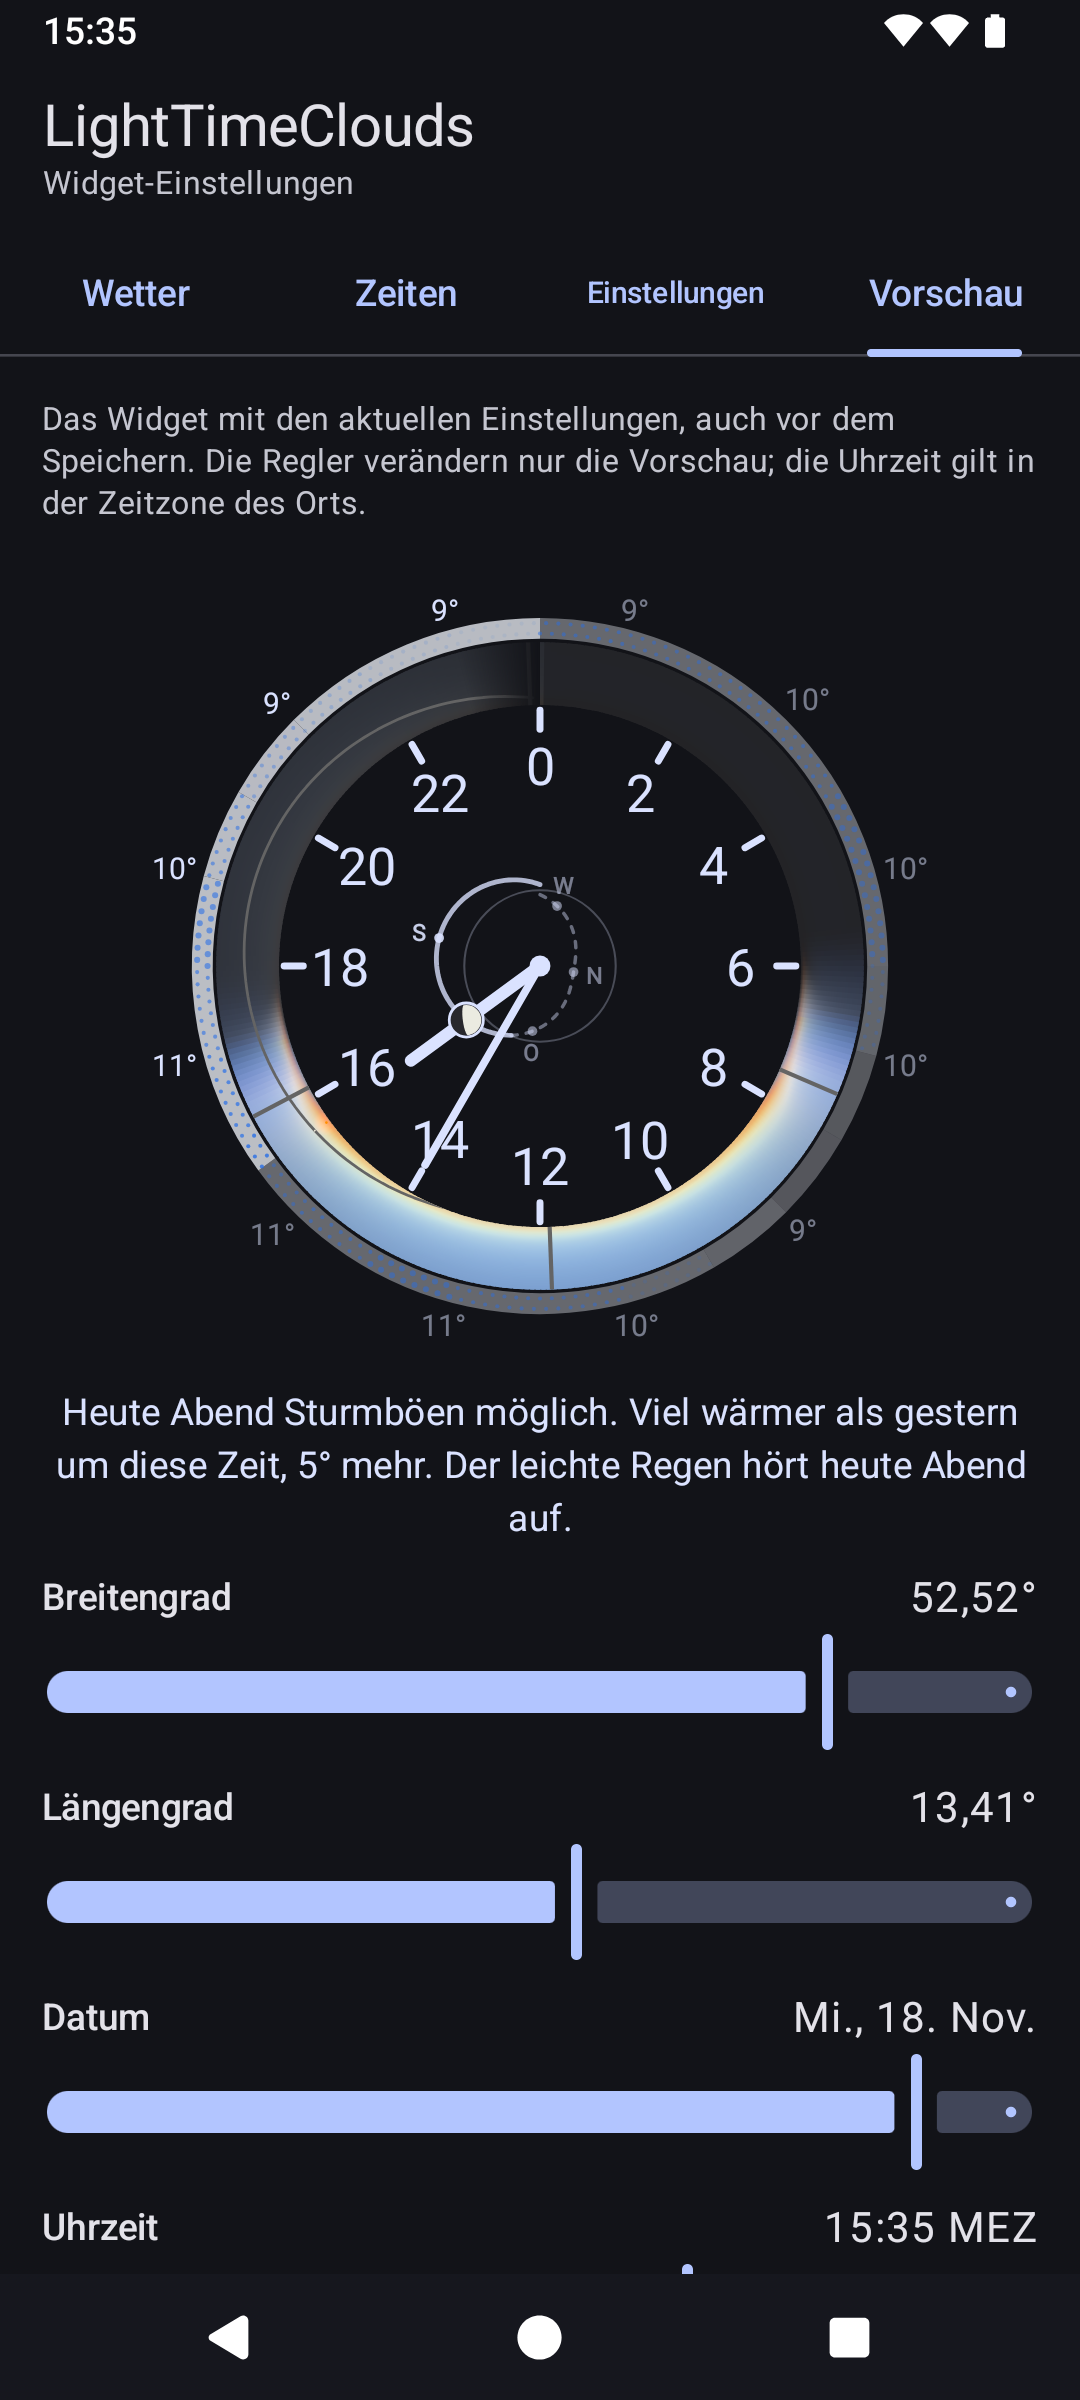
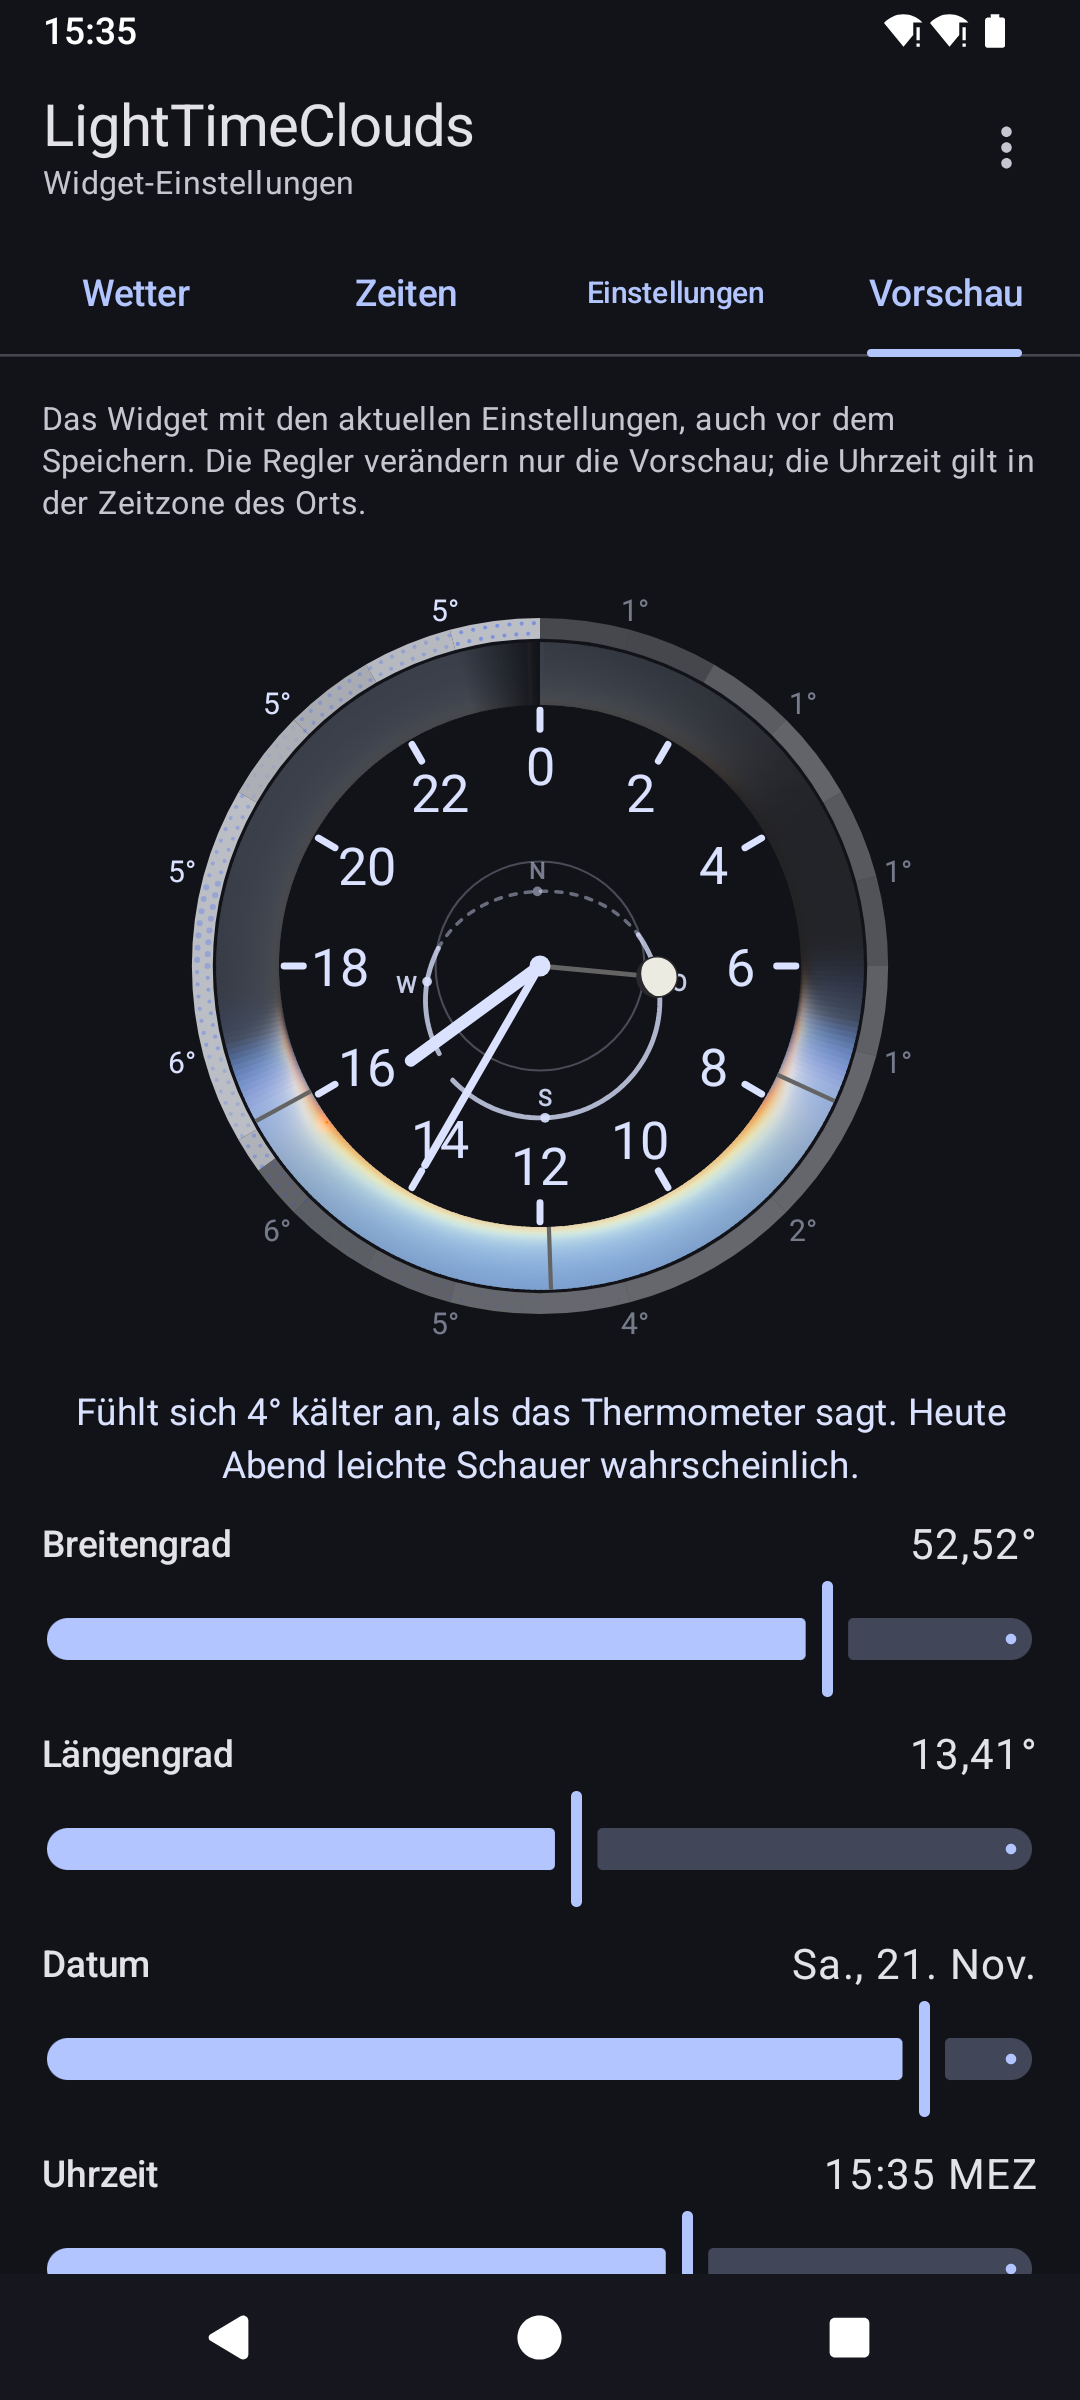
Retake the store screenshots with a script
tools/store_screenshots.py takes the six screenshots per language on a
running emulator: it sets the clock to Berlin shortly before sunset,
turns on the demo status bar, writes the widget's settings straight
into the app's preferences file and loads one forecast that every
language reuses. Only placing the widget on the home screen stays a
one-time manual step.

The new shots show the 24-hour default with its own moon hand, the
sky palette, the weather chart with wind, the settings tab with one
topic open, and the app menu.

diff --git a/tools/store_screenshots.py b/tools/store_screenshots.py
@@ -1,0 +1,327 @@
+# /// script
+# requires-python = ">=3.12"
+# dependencies = ["pillow>=11"]
+# ///
+"""Takes the six store screenshots per language on an emulator and writes them to fastlane/.
+
+  1  home screen, widget with the default settings
+  2  home screen, widget with place name, weather ring and summary
+  3–6 the widget's settings: tabs weather, times, settings (one topic open), preview
+
+The scene is Berlin a little before sunset, with a demo status bar. Settings are written straight
+into the app's preferences file and the forecast is fetched once and reused for every language, so
+all shots show the same weather.
+
+One-time setup of the emulator (kept in its AVD):
+  - a launcher with room for a full-width 4x4 widget above the icon row (Lawnchair works well),
+    the LightTimeClouds widget placed there and resized to full width, a calm dark wallpaper;
+  - a Google-free system image, so `adb root` works.
+
+Run from the repository root with the emulator running:
+  ./gradlew :app:assembleRelease
+  uv run tools/store_screenshots.py --apk app/build/outputs/apk/release/app-release.apk --fetch
+
+`--fetch` turns the network on once to load a fresh forecast for the scene's date and keeps it in
+build/store-screenshots/forecast.json; without it that file is reused, so the scene's date must
+then be the date the forecast was fetched on.
+"""
+
+from __future__ import annotations
+
+import argparse
+import datetime as dt
+import io
+import re
+import struct
+import subprocess
+import sys
+import time
+import xml.etree.ElementTree as ET
+from collections.abc import Mapping
+from pathlib import Path
+
+from PIL import Image
+
+PACKAGE = "com.umfluten.lighttimeclouds"
+PROVIDER = f"{PACKAGE}/.widget.ClockWidgetProvider"
+CONFIG = f"{PACKAGE}/.config.ConfigActivity"
+DATA = f"/data/data/{PACKAGE}/files"
+PREFS = f"{DATA}/datastore/widget_prefs.preferences_pb"
+FORECAST = f"{DATA}/weather/default.json"
+
+ROOT = Path(__file__).resolve().parent.parent
+OUT = ROOT / "fastlane/metadata/android"
+WORK = ROOT / "build/store-screenshots"
+
+# Store locale -> Android resource directory.
+LOCALES = {"de-DE": "values-de", "en-US": "values", "es-ES": "values-es", "fr-FR": "values-fr"}
+
+# Berlin, as in all examples; about 25 minutes before sunset in late November.
+PLACE = {"name": "Berlin", "lat": 52.521, "lon": 13.409, "zone": "Europe/Berlin"}
+SCENE_TIME = dt.time(15, 35)
+
+# Shot 2 changes only these from the defaults.
+SHOWCASE: dict[str, object] = {
+    "label_position": "ABOVE",
+    "show_weather": True,
+    "weather_ring_position": "OUTSIDE",
+    "temperature_position": "OUTSIDE",
+    "summary_position": "BELOW",
+}
+
+SETTLE_S = 3.0
+
+
+class Device:
+    def __init__(self, serial: str) -> None:
+        self.serial = serial
+
+    def run(self, *args: str, binary: bool = False, check: bool = True) -> str | bytes:
+        result = subprocess.run(["adb", "-s", self.serial, *args], capture_output=True, check=check)
+        return result.stdout if binary else result.stdout.decode(errors="replace").strip()
+
+    def shell(self, command: str, check: bool = True) -> str:
+        out = self.run("shell", command, check=check)
+        assert isinstance(out, str)
+        return out
+
+    def wait_for_boot(self) -> None:
+        self.run("wait-for-device")
+        while self.shell("getprop sys.boot_completed", check=False) != "1":
+            time.sleep(1)
+        time.sleep(SETTLE_S)
+
+    def push_file(self, local: Path, remote: str, mode: str) -> None:
+        """Puts [local] at [remote] inside the app's data, owned by the app and labeled for it."""
+        owner = self.shell(f"stat -c %u {DATA}")
+        self.run("push", str(local), "/data/local/tmp/ltc_upload")
+        self.shell(
+            f"mkdir -p {remote.rsplit('/', 1)[0]} && cp /data/local/tmp/ltc_upload {remote} && "
+            f"chown {owner}:{owner} {remote} && chmod {mode} {remote} && restorecon {remote} && "
+            "rm /data/local/tmp/ltc_upload"
+        )
+
+    def tap(self, x: int, y: int) -> None:
+        self.shell(f"input tap {x} {y}")
+
+    def screenshot(self, path: Path) -> None:
+        png = self.run("exec-out", "screencap", "-p", binary=True)
+        assert isinstance(png, bytes)
+        path.parent.mkdir(parents=True, exist_ok=True)
+        # Re-encoding drops every metadata chunk.
+        Image.open(io.BytesIO(png)).convert("RGB").save(path, optimize=True)
+
+    def nodes(self) -> list[tuple[str, tuple[int, int, int, int]]]:
+        """Visible texts on screen with their bounds."""
+        self.shell("uiautomator dump /sdcard/ltc_ui.xml")
+        xml = self.run("exec-out", "cat", "/sdcard/ltc_ui.xml")
+        assert isinstance(xml, str)
+        found = []
+        for node in ET.fromstring(xml).iter("node"):
+            text = node.get("text") or node.get("content-desc") or ""
+            m = re.match(r"\[(\d+),(\d+)\]\[(\d+),(\d+)\]", node.get("bounds", ""))
+            if text and m:
+                found.append((text, (int(m[1]), int(m[2]), int(m[3]), int(m[4]))))
+        return found
+
+    def tap_text(self, text: str, below: int = 0) -> int:
+        """Taps the topmost [text] below the y coordinate [below]; returns its bottom edge."""
+        for found, (x0, y0, x1, y1) in sorted(self.nodes(), key=lambda n: n[1][1]):
+            if found == text and y0 >= below:
+                self.tap((x0 + x1) // 2, (y0 + y1) // 2)
+                return y1
+        sys.exit(f"'{text}' not found on screen")
+
+
+# ---- preferences file (androidx.datastore PreferenceMap protobuf) ----
+
+
+def _varint(n: int) -> bytes:
+    out = bytearray()
+    while True:
+        b = n & 0x7F
+        n >>= 7
+        out.append(b | (0x80 if n else 0))
+        if not n:
+            return bytes(out)
+
+
+def _field(number: int, payload: bytes) -> bytes:
+    return _varint(number << 3 | 2) + _varint(len(payload)) + payload
+
+
+def _value(v: object) -> bytes:
+    match v:
+        case bool():
+            return _varint(1 << 3) + _varint(int(v))
+        case int():
+            return _varint(3 << 3) + _varint(v & 0xFFFFFFFFFFFFFFFF)
+        case float():
+            return _varint(7 << 3 | 1) + struct.pack("<d", v)
+        case str():
+            return _field(5, v.encode())
+        case set():
+            return _field(6, b"".join(_field(1, s.encode()) for s in sorted(v)))
+    raise TypeError(v)
+
+
+def preferences(widget_id: int, changes: Mapping[str, object]) -> bytes:
+    """The app's preferences with Berlin as the only place and [changes] for the widget."""
+    prefs: dict[str, object] = {
+        "place_ids": {"default"},
+        "place_default_name": PLACE["name"],
+        "place_default_lat": PLACE["lat"],
+        "place_default_lon": PLACE["lon"],
+        "place_default_zone": PLACE["zone"],
+        f"w{widget_id}_place": "default",
+        f"w{widget_id}_configured": True,
+    }
+    prefs.update({f"w{widget_id}_{k}": v for k, v in changes.items()})
+    return b"".join(_field(1, _field(1, k.encode()) + _field(2, _value(v))) for k, v in prefs.items())
+
+
+# ---- scene ----
+
+
+def widget_id(device: Device) -> int:
+    dump = device.shell("dumpsys appwidget")
+    ids = re.findall(r"\[\d+\] id=(\d+)\s+host=[^\n]*\s+provider=ProviderId\{[^}]*" + re.escape(PACKAGE), dump)
+    if not ids:
+        sys.exit("No LightTimeClouds widget on the home screen; place one first (see the docstring).")
+    return int(ids[0])
+
+
+def set_clock(device: Device, at: dt.datetime) -> None:
+    device.shell("settings put global auto_time 0")
+    device.shell(f"date {at:%m%d%H%M%Y.%S}")
+    device.shell("am broadcast -a android.intent.action.TIME_SET", check=False)
+
+
+def demo_status_bar(device: Device, at: dt.datetime) -> None:
+    device.shell("settings put global sysui_demo_allowed 1")
+    for extras in (
+        "enter",
+        f"clock -e hhmm {at:%H%M}",
+        "battery -e level 100 -e plugged false",
+        "network -e wifi show -e level 4 -e mobile hide",
+        "notifications -e visible false",
+    ):
+        command, *rest = extras.split(" ", 1)
+        device.shell(f"am broadcast -a com.android.systemui.demo -e command {command} {' '.join(rest)}")
+
+
+def network(device: Device, on: bool) -> None:
+    state = "enable" if on else "disable"
+    device.shell(f"svc wifi {state}; svc data {state}")
+
+
+def apply_settings(device: Device, wid: int, changes: Mapping[str, object], forecast: Path | None = None) -> None:
+    """Writes the settings, and [forecast] if given, then redraws the widget."""
+    device.shell(f"am force-stop {PACKAGE}")
+    file = WORK / "widget_prefs.preferences_pb"
+    file.write_bytes(preferences(wid, changes))
+    device.push_file(file, PREFS, "600")
+    if forecast:
+        device.push_file(forecast, FORECAST, "644")
+    device.shell(
+        f"am broadcast --include-stopped-packages -a android.appwidget.action.APPWIDGET_UPDATE "
+        f"-n {PROVIDER} --eia appWidgetIds {wid}"
+    )
+    time.sleep(SETTLE_S)
+
+
+def fetch_forecast(device: Device, wid: int, keep: Path) -> None:
+    device.shell(f"rm -f {FORECAST}")
+    network(device, True)
+    time.sleep(5)
+    apply_settings(device, wid, SHOWCASE)
+    for _ in range(60):
+        if device.shell(f"ls {FORECAST}", check=False) == FORECAST:
+            break
+        time.sleep(1)
+    else:
+        sys.exit("The forecast did not arrive within a minute.")
+    network(device, False)
+    keep.parent.mkdir(parents=True, exist_ok=True)
+    device.run("pull", FORECAST, str(keep))
+
+
+def strings(locale: str) -> dict[str, str]:
+    tree = ET.parse(ROOT / "app/src/main/res" / LOCALES[locale] / "strings.xml")
+    return {e.get("name", ""): (e.text or "").replace("\\'", "'") for e in tree.iter("string")}
+
+
+def switch_locale(device: Device, locale: str) -> None:
+    device.shell(f"cmd locale set-app-locales {PACKAGE} --locales ''", check=False)
+    if device.shell("getprop persist.sys.locale") == locale:
+        return
+    device.shell(f"setprop persist.sys.locale {locale}; setprop ctl.restart zygote")
+    time.sleep(5)
+    device.wait_for_boot()
+
+
+def shoot_locale(device: Device, wid: int, locale: str, at: dt.datetime, forecast: Path) -> None:
+    texts = strings(locale)
+    folder = OUT / locale / "images/phoneScreenshots"
+    switch_locale(device, locale)
+    network(device, False)
+    set_clock(device, at)
+    demo_status_bar(device, at)
+    # Without weather the app drops its forecasts, so the forecast only comes along for shot 2.
+    apply_settings(device, wid, {})
+    device.shell("input keyevent KEYCODE_HOME")
+    time.sleep(SETTLE_S)
+    device.screenshot(folder / "1.png")
+
+    apply_settings(device, wid, SHOWCASE, forecast)
+    device.shell("input keyevent KEYCODE_HOME")
+    time.sleep(SETTLE_S)
+    device.screenshot(folder / "2.png")
+
+    set_clock(device, at)
+    device.shell(f"am start -W -a android.appwidget.action.APPWIDGET_CONFIGURE -n {CONFIG} --ei appWidgetId {wid}")
+    time.sleep(SETTLE_S)
+    tabs_bottom = 0
+    for number, tab in ((3, "tab_weather"), (4, "tab_times"), (5, "tab_settings"), (6, "tab_preview")):
+        tabs_bottom = device.tap_text(texts[tab])
+        time.sleep(SETTLE_S)
+        if tab == "tab_settings":
+            # One topic open, the way the tab is used.
+            device.tap_text(texts["section_weather"], below=tabs_bottom + 1)
+            time.sleep(SETTLE_S)
+        device.screenshot(folder / f"{number}.png")
+    device.shell("input keyevent KEYCODE_BACK")
+    print(f"{locale}: 6 screenshots")
+
+
+def main() -> None:
+    parser = argparse.ArgumentParser(description=__doc__.split("\n", 1)[0])
+    parser.add_argument("--serial", default="emulator-5554")
+    parser.add_argument("--apk", type=Path, help="install this APK first")
+    parser.add_argument("--date", type=dt.date.fromisoformat, default=dt.date.today(), help="scene date, default today")
+    parser.add_argument("--fetch", action="store_true", help="load a fresh forecast for the scene")
+    parser.add_argument("--locales", default=",".join(LOCALES), help="comma-separated, default all four")
+    args = parser.parse_args()
+
+    device = Device(args.serial)
+    device.run("root")
+    device.wait_for_boot()
+    if args.apk:
+        device.run("install", "-r", str(args.apk))
+    WORK.mkdir(parents=True, exist_ok=True)
+    wid = widget_id(device)
+    at = dt.datetime.combine(args.date, SCENE_TIME)
+    forecast = WORK / "forecast.json"
+
+    set_clock(device, at)
+    if args.fetch:
+        fetch_forecast(device, wid, forecast)
+    elif not forecast.exists():
+        sys.exit(f"No saved forecast at {forecast}; run with --fetch.")
+
+    for locale in args.locales.split(","):
+        shoot_locale(device, wid, locale, at, forecast)
+
+
+if __name__ == "__main__":
+    main()

diff --git a/LIESMICH.md b/LIESMICH.md
@@ -63,6 +63,13 @@ uv run tools/reference_ephemeris.py # Referenzwerte aus JPL DE440s für die Test
 
 Beide laden ihre Rohdaten (IMCCE-Reihen, ~32 MB Ephemeride) in `~/.cache/lighttimeclouds/`, nicht ins Repo.
 
+`tools/store_screenshots.py` nimmt die sechs Store-Screenshots je Sprache auf einem laufenden Emulator auf (Berlin kurz vor Sonnenuntergang, Demo-Statusleiste, eine Vorhersage für alle Sprachen) und legt sie unter `fastlane/` ab. Es braucht einen Launcher, auf dem das Widget einmal platziert ist; die Einzelheiten stehen im Skript:
+
+```sh
+./gradlew :app:assembleRelease
+uv run tools/store_screenshots.py --apk app/build/outputs/apk/release/app-release.apk --fetch
+```
+
 Zum manuellen Testen: Widget auf den Homescreen ziehen, über das Launcher-Icon „LightTimeClouds“ konfigurieren; Logs per `adb logcat`.
 
 ### Übersetzungen

diff --git a/README.md b/README.md
@@ -63,6 +63,13 @@ uv run tools/reference_ephemeris.py # reference values from JPL DE440s for the t
 
 Both download their raw data (IMCCE series, ~32 MB ephemeris) to `~/.cache/lighttimeclouds/`, not into the repository.
 
+`tools/store_screenshots.py` takes the six store screenshots per language on a running emulator (Berlin shortly before sunset, demo status bar, one forecast for all languages) and writes them to `fastlane/`. It needs a launcher with the widget placed once; the details are in the script:
+
+```sh
+./gradlew :app:assembleRelease
+uv run tools/store_screenshots.py --apk app/build/outputs/apk/release/app-release.apk --fetch
+```
+
 For manual testing: drag the widget onto the home screen and configure it via the "LightTimeClouds" launcher icon; logs via `adb logcat`.
 
 ### Translations
